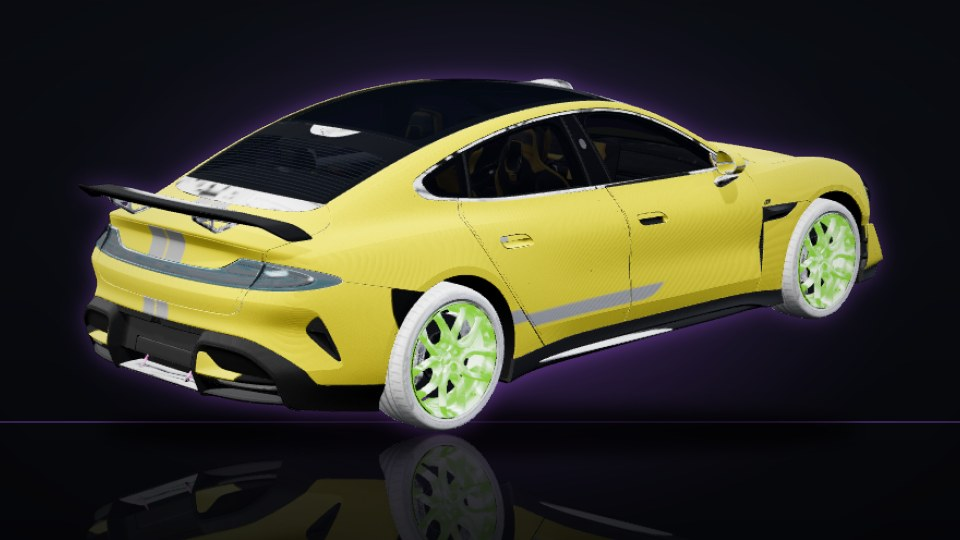
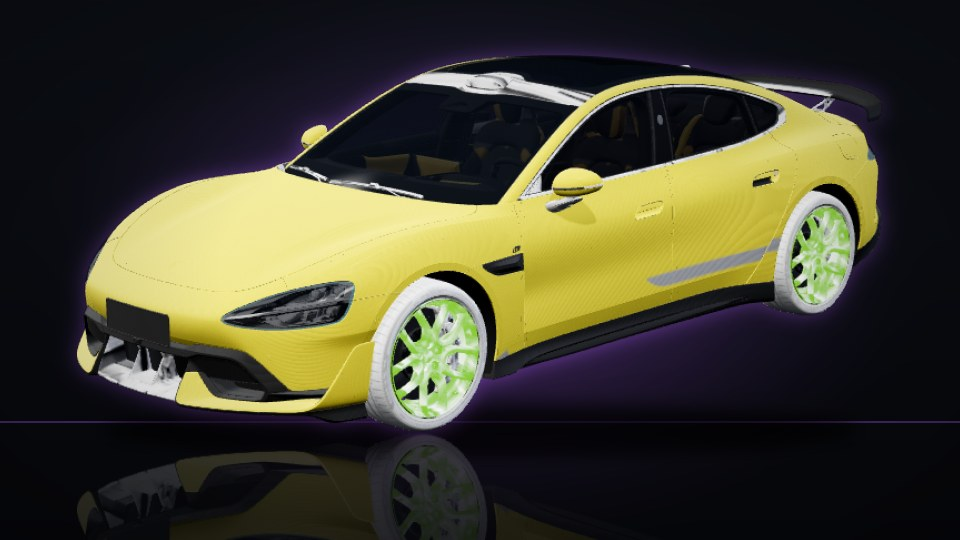
Каталог: 6 машин развёрнуты передом (найдены сканером), Франция без битых моделей (Citroen C1, Renault Talisman — у владельцев остаются), шины моделей без текстур тёмные
Claude-Session: https://claude.ai/code/session_019UALasUKNcW9S6Aj9a22dA

diff --git a/web/src/photos.ts b/web/src/photos.ts
@@ -1,5 +1,5 @@
 // Создано сборкой графики: машины, отрисованные по 3D-моделям (id → версия файла).
-export const PHOTOS: Record<number, string> = {"1":"a0a20f10","2":"4d78a45d","3":"9f8972d1","4":"5fdba6b5","5":"08997b49","6":"89c53860","7":"3ce6effe","8":"4fdff9d9","9":"e4af1e19","10":"df0142d7","11":"273c42c9","12":"6cb6e8f3","13":"a76e9824","14":"3c639a93","15":"ce9d79f6","16":"be1cf3c6","17":"ba84bf11","18":"c90b0d08","19":"d2004f71","20":"74f37a76","21":"dad98bdd","22":"55f0974d","23":"f4e7fb5f","24":"f192ad19","25":"1f88f432","26":"cb327f86","27":"08f83d2c","28":"385098e4","29":"aed1b9bf","30":"a9df1fd6","31":"f4eaabee","32":"19f9cc4f","33":"593bfba8","34":"ef456c11","35":"cc847159","36":"23bb94d7","37":"b7a7fa9d","38":"641a2fcc","39":"aa333dfe","40":"008a6bd8","41":"bf6f1095","42":"35ef4d3e","43":"8ab3f075","44":"a76e7765","45":"5b9ab1d8","46":"44d2c362","47":"1120c18b","48":"b90cd662","49":"de28e2e8","50":"e8e0e838","51":"9a7af5d3","52":"8e4927ad","53":"2ce34cb6","54":"cda32cc0","55":"b2246600","56":"fa22dce1","57":"460b3c78","58":"2d44795e","59":"d63c38a9","60":"513b2927","61":"93921e3a","62":"81a71f1e","63":"2dc0717e","64":"8f83987f","101":"f768a768","102":"a888f826","103":"a1e9124f","104":"27b82db8","105":"3079c25a","106":"1cf945bd","107":"c601acdc","108":"6dfa3b6d","109":"3ac3d743","110":"2fe43153","111":"e3f2a0e7","112":"f8d86b3c","113":"01c9b75e","114":"f3e3b52a","115":"3bb17395","116":"b36b1b10","117":"3e63bd29","118":"b5a35517","119":"4a2c6c39","120":"fd9fab7c","121":"54654caf","122":"9bddc043","123":"a4b55c84","124":"b90d33ba","125":"76acf313","126":"c7ecf0ce","127":"a175cfac","128":"265bfe34","129":"6a161786","130":"9f2b1acb","131":"efa3d57b","132":"d56aebd0","133":"443e15dd","134":"46d6873d","135":"5a49d684","136":"c6db2762","137":"05b39c57","138":"46336d2b","139":"d962a6c4","140":"c7ca652c","141":"ed190163","142":"06dd3544","200":"2cee37ba","201":"e0e4ec71","202":"d9945558","203":"ea17a359","204":"d124f292","205":"837563f6","206":"6da4c74c","207":"706ced99","208":"3078dfe9","209":"dfa48b29","210":"d56a0207","211":"d38e2764","212":"0b5ee0ff","213":"034a39ed","214":"b069e70e","215":"4c683ceb","216":"1c9c8123","217":"bdc59773","218":"449eba16","219":"f38b8db1","220":"215ded02","221":"43d25165","222":"d4573114","223":"d9140421","224":"de13299d","225":"0ddda057","226":"eb9c3b04","227":"0a1506c4","228":"a326b9b7","229":"b28a8d5a","230":"c67fbcfd","231":"0e254e2c","232":"62a073f1","233":"c814b666","234":"756504f6","235":"6ff30425","236":"2f7c0cb2","237":"9aa0e191","238":"c7ceeecc","239":"f09f33f1","240":"12c866cc","241":"3557268a","300":"649bea04","301":"66484ca8","302":"6112e4a9","303":"333e53a2","304":"439797cd","305":"11aa43dc","306":"f9bcbf27","307":"04346c69","308":"ae664be3","309":"bcc34f9f","310":"724bb97c","311":"12331726","312":"3c64a3c2","313":"66e188f3","314":"3cff1a0e","315":"5ddb8a00","316":"fa705c6f","317":"f698ef9c","318":"40efa3a6","319":"42590845","320":"889bbf26","321":"360eaf26","322":"9d363e45","323":"76463800","324":"a1318935","325":"800ff9c8","326":"cd5a236f","327":"df276c6e","328":"19f8f388","329":"c580d6e8","330":"f298e2bf","331":"4499cf43","332":"c4a6daf7","333":"be3bcbdb","334":"f8a88122","335":"ffa3c9de","336":"6a9186aa","337":"5a7fe2f4","338":"bb25b71b","339":"03288371","340":"fde506c5","341":"73d2f041","400":"11d97cb7","401":"760b99d5","402":"d8a12f87","403":"0f63cba8","404":"132590e5","405":"1db2b1f3","406":"c0d90a38","407":"929822ce","408":"da31c17c","409":"19152036","410":"30978a58","411":"7cd2f96e","412":"0451b0fb","413":"31a2ad79","414":"a8af1273","415":"312a3a27","416":"7baf73b0","417":"c7847ad1","418":"df37467a","419":"22661a4a","420":"9d618dd8","421":"f9101190","422":"f502af6a","423":"775a33a9","424":"252f0528","425":"1853ce27","426":"4516adc3","427":"92554e9e","428":"d2eaa51d","429":"1c017376","430":"01fe57ff","431":"67d8d458","432":"96386feb","433":"2f7b128a","434":"cfa39a5f","435":"a76a51fb","436":"28471267","437":"122d1bda","438":"545b36f2","439":"aef7a5a0","440":"de329800","441":"32af85fc","500":"e8a8fb22","501":"98d04fa6","502":"60ea26d1","503":"4c66f217","504":"8cc929e9","505":"652d3f90","506":"365ead4b","507":"0e489540","508":"70804c76","509":"467c1f2a","510":"609a2065","511":"f8461575","512":"36d71574","513":"c2b2f297","514":"6c2bb906","515":"8d216efc","516":"ed3f081d","517":"7d32cd61","518":"09635d8b","519":"2a94d53f","520":"8e830804","521":"b2a834fe","522":"8e34e6aa","523":"a5abca11","524":"b3075d45","525":"1f86adfc","526":"1e3ce295","527":"f0b21998","528":"e2f5c7a2","529":"1b70c1a4","530":"1615e59a","531":"1bb050ce","532":"adaf64f5","533":"982acb04","534":"6e7f625e","535":"338689ed","536":"739a260b","537":"6e51af88","538":"6ef026bb","539":"0e679e35","540":"3fb6a5ab","541":"6d4ef3ca","600":"1befe662","601":"05d4a254","602":"842aaa3b","603":"0dfe1581","604":"365ead4b","605":"bde5feaf","606":"0add0bd3","607":"2821eaa0","608":"f468656d","609":"4530883d","610":"25933d82","611":"cd078880","612":"4340d62e","613":"43be596d","614":"1c2a72ef","615":"a22a125a","616":"1a014ecf","617":"ee9d56e6","618":"71d5edab","619":"27487c07","620":"ab41674d","621":"2254b79d","622":"ceb0af4f","623":"0e56ffdb","624":"cd8d4dac","625":"9176cbf2","626":"03df11e5","627":"389e31fb","628":"5fb28ded","629":"bbf77307","630":"0483abb8","631":"512521e6","632":"8d28ae0b","633":"d1dc97a1","634":"f0b936e1","635":"302c6173","636":"db7cc7db","637":"4049282a","638":"e0f95698","639":"a3e8f80e","640":"77ab27ba","641":"099b3bf9","700":"d0bc3e2d","701":"38eb72b9","702":"18ad6618","703":"3e7b095e","704":"d59d3ee5","705":"18ee046d","706":"ae67ac3c","707":"a1004f47","708":"005c11d7","709":"dea8a83f","710":"c4d11f05","711":"30fc0088","712":"43b15b9e","713":"fe0ef21b","714":"0faeab94","715":"1f827a0d","716":"3c54f695","717":"520b6fdf","718":"17dbb027","719":"f6fcba39","720":"76d40853","721":"a107eb0e","722":"66e28c5e","723":"8567aa26","724":"b20cc301","725":"9d0fb653","726":"87a8a07c","727":"ed6d15f0","728":"0a9554d4","729":"eb381e05","730":"21a26ee8","731":"df92ec65","732":"73dc771a","733":"93238e65","734":"f4c2367a","735":"7b18eb71","736":"90c29825","737":"7e284f5c","738":"a6af1f3d","739":"cdfe258c","740":"295f3a00","741":"ecd7b779","800":"fb51ce30","801":"8f21cd11","802":"66cb9142","803":"beba58e5","804":"8696f79f","805":"58d7e612","806":"b0a2735f","807":"d60dd3bb","808":"7a4825a9","809":"6bd860fa","810":"5c409454","811":"33a6ce68","812":"fbd08e25","813":"22e51adb","814":"374e5ac5","815":"998e0300","816":"1c5ca67d","817":"8f3efadd","818":"5dccdff9","819":"d7dc7eaa","820":"9f3696f1","821":"edc32763","822":"930fc6eb","823":"eaca025d","824":"71daa07c","825":"dcb840e8","826":"90952d0d","827":"dec0a6ca","828":"24fa6156","829":"45bc5b18","830":"ec5281b1","831":"03054feb","832":"cc1a5a4c","833":"fd386b83","834":"b6d93f3b","835":"0541c1b5","836":"4c39a053","837":"39cb1990","838":"3e1ac87a","839":"15b51047","840":"d9768e80","841":"bb137b89"};
+export const PHOTOS: Record<number, string> = {"1":"a0a20f10","2":"4d78a45d","3":"9f8972d1","4":"5fdba6b5","5":"08997b49","6":"89c53860","7":"3ce6effe","8":"d5dc2ec2","9":"e4af1e19","10":"df0142d7","11":"273c42c9","12":"6cb6e8f3","13":"a76e9824","14":"3c639a93","15":"ce9d79f6","16":"be1cf3c6","17":"ba84bf11","18":"c90b0d08","19":"d2004f71","20":"74f37a76","21":"dad98bdd","22":"55f0974d","23":"f4e7fb5f","24":"f192ad19","25":"1f88f432","26":"cb327f86","27":"08f83d2c","28":"385098e4","29":"aed1b9bf","30":"a9df1fd6","31":"f4eaabee","32":"19f9cc4f","33":"593bfba8","34":"ef456c11","35":"cc847159","36":"23bb94d7","37":"b7a7fa9d","38":"641a2fcc","39":"aa333dfe","40":"008a6bd8","41":"bf6f1095","42":"35ef4d3e","43":"8ab3f075","44":"a76e7765","45":"5b9ab1d8","46":"66a58c37","47":"1120c18b","48":"b90cd662","49":"de28e2e8","50":"e8e0e838","51":"9a7af5d3","52":"8e4927ad","53":"2ce34cb6","54":"cda32cc0","55":"b2246600","56":"fa22dce1","57":"460b3c78","58":"2d44795e","59":"d63c38a9","60":"513b2927","61":"93921e3a","62":"81a71f1e","63":"2dc0717e","64":"8f83987f","101":"f768a768","102":"a888f826","103":"a1e9124f","104":"27b82db8","105":"3079c25a","106":"1cf945bd","107":"c601acdc","108":"6dfa3b6d","109":"3ac3d743","110":"2fe43153","111":"e3f2a0e7","112":"f8d86b3c","113":"01c9b75e","114":"f3e3b52a","115":"3bb17395","116":"b36b1b10","117":"3e63bd29","118":"b5a35517","119":"4a2c6c39","120":"fd9fab7c","121":"54654caf","122":"9bddc043","123":"a4b55c84","124":"b90d33ba","125":"76acf313","126":"c7ecf0ce","127":"a175cfac","128":"265bfe34","129":"6a161786","130":"9f2b1acb","131":"efa3d57b","132":"d56aebd0","133":"443e15dd","134":"46d6873d","135":"5a49d684","136":"c6db2762","137":"05b39c57","138":"46336d2b","139":"d962a6c4","140":"c7ca652c","141":"ed190163","142":"06dd3544","200":"2cee37ba","201":"e0e4ec71","202":"d9945558","203":"ea17a359","204":"d124f292","205":"837563f6","206":"6da4c74c","207":"706ced99","208":"3078dfe9","209":"dfa48b29","210":"d56a0207","211":"d38e2764","212":"0b5ee0ff","213":"034a39ed","214":"b069e70e","215":"4c683ceb","216":"1c9c8123","217":"bdc59773","218":"449eba16","219":"f38b8db1","220":"215ded02","221":"43d25165","222":"d4573114","223":"d9140421","224":"de13299d","225":"0ddda057","226":"eb9c3b04","227":"0a1506c4","228":"a326b9b7","229":"b28a8d5a","230":"c67fbcfd","231":"0e254e2c","232":"62a073f1","233":"c814b666","234":"14c2f8a6","235":"6ff30425","236":"2f7c0cb2","237":"9aa0e191","238":"c7ceeecc","239":"f09f33f1","240":"12c866cc","241":"3557268a","300":"649bea04","301":"66484ca8","302":"6112e4a9","303":"333e53a2","304":"439797cd","305":"11aa43dc","306":"f9bcbf27","307":"04346c69","308":"ae664be3","309":"bcc34f9f","310":"724bb97c","311":"12331726","312":"3c64a3c2","313":"66e188f3","314":"3cff1a0e","315":"5ddb8a00","316":"fa705c6f","317":"f698ef9c","318":"40efa3a6","319":"42590845","320":"889bbf26","321":"360eaf26","322":"9d363e45","323":"76463800","324":"a1318935","325":"800ff9c8","326":"cd5a236f","327":"df276c6e","328":"19f8f388","329":"c580d6e8","330":"f298e2bf","331":"4499cf43","332":"c4a6daf7","333":"be3bcbdb","334":"f8a88122","335":"ffa3c9de","336":"6a9186aa","337":"5a7fe2f4","338":"bb25b71b","339":"03288371","340":"fde506c5","341":"73d2f041","400":"11d97cb7","401":"760b99d5","402":"d8a12f87","403":"0f63cba8","404":"132590e5","405":"1db2b1f3","406":"c0d90a38","407":"929822ce","408":"da31c17c","409":"19152036","410":"30978a58","411":"7cd2f96e","412":"0451b0fb","413":"31a2ad79","414":"a8af1273","415":"312a3a27","416":"7baf73b0","417":"c7847ad1","418":"df37467a","419":"22661a4a","420":"85e00a82","421":"f9101190","422":"f502af6a","423":"775a33a9","424":"252f0528","425":"1853ce27","426":"4516adc3","427":"92554e9e","428":"d2eaa51d","429":"1c017376","430":"01fe57ff","431":"67d8d458","432":"96386feb","433":"2f7b128a","434":"cfa39a5f","435":"a76a51fb","436":"28471267","437":"122d1bda","438":"545b36f2","439":"aef7a5a0","440":"de329800","441":"32af85fc","500":"e8a8fb22","501":"98d04fa6","502":"60ea26d1","503":"4c66f217","504":"8cc929e9","505":"652d3f90","506":"365ead4b","507":"0e489540","508":"70804c76","509":"467c1f2a","510":"609a2065","511":"f8461575","512":"36d71574","513":"c2b2f297","514":"6c2bb906","515":"8d216efc","516":"2366c0cd","517":"7d32cd61","518":"09635d8b","519":"2a94d53f","520":"8e830804","521":"b2a834fe","522":"8e34e6aa","523":"a5abca11","524":"b3075d45","525":"1f86adfc","526":"1e3ce295","527":"f0b21998","528":"e2f5c7a2","529":"1b70c1a4","530":"1615e59a","531":"1bb050ce","532":"adaf64f5","533":"982acb04","534":"6e7f625e","535":"338689ed","536":"739a260b","537":"6e51af88","538":"6ef026bb","539":"0e679e35","540":"3fb6a5ab","541":"6d4ef3ca","600":"1befe662","601":"05d4a254","602":"842aaa3b","603":"0dfe1581","604":"365ead4b","605":"bde5feaf","606":"0add0bd3","607":"2821eaa0","608":"f468656d","609":"4530883d","610":"25933d82","611":"cd078880","612":"4340d62e","613":"43be596d","614":"1c2a72ef","615":"690a7c91","616":"1a014ecf","617":"ee9d56e6","618":"71d5edab","619":"27487c07","620":"ab41674d","621":"2254b79d","622":"e90bc337","623":"0e56ffdb","624":"cd8d4dac","625":"9176cbf2","626":"03df11e5","627":"389e31fb","628":"5fb28ded","629":"bbf77307","630":"0483abb8","631":"512521e6","632":"8d28ae0b","633":"54866f25","634":"f0b936e1","635":"302c6173","636":"db7cc7db","637":"4049282a","638":"e0f95698","639":"a3e8f80e","640":"77ab27ba","641":"099b3bf9","700":"d0bc3e2d","701":"38eb72b9","702":"18ad6618","703":"3e7b095e","704":"d59d3ee5","705":"18ee046d","706":"ae67ac3c","707":"a1004f47","708":"005c11d7","709":"dea8a83f","710":"c4d11f05","711":"30fc0088","712":"43b15b9e","713":"fe0ef21b","714":"0faeab94","715":"1f827a0d","716":"3c54f695","717":"520b6fdf","718":"17dbb027","719":"f6fcba39","720":"1b31f2fd","721":"1ae43a41","722":"66e28c5e","723":"8567aa26","724":"b20cc301","725":"9d0fb653","726":"87a8a07c","727":"ed6d15f0","728":"e5df86b0","729":"eb381e05","730":"21a26ee8","731":"df92ec65","732":"73dc771a","733":"93238e65","734":"f4c2367a","735":"7b18eb71","736":"90c29825","737":"7e284f5c","738":"a6af1f3d","739":"cdfe258c","740":"2f44505e","741":"ecd7b779","800":"fb51ce30","801":"8f21cd11","802":"66cb9142","803":"beba58e5","804":"8696f79f","805":"58d7e612","806":"b0a2735f","807":"d60dd3bb","808":"7a4825a9","809":"6bd860fa","810":"5c409454","811":"33a6ce68","812":"fbd08e25","813":"22e51adb","814":"374e5ac5","815":"998e0300","816":"1c5ca67d","817":"8f3efadd","818":"5dccdff9","819":"d7dc7eaa","820":"9f3696f1","821":"edc32763","822":"930fc6eb","823":"eaca025d","824":"71daa07c","825":"dcb840e8","826":"90952d0d","827":"dec0a6ca","828":"24fa6156","829":"45bc5b18","830":"ec5281b1","831":"03054feb","832":"cc1a5a4c","833":"fd386b83","834":"b6d93f3b","835":"0541c1b5","836":"4c39a053","837":"39cb1990","838":"3e1ac87a","839":"15b51047","840":"d9768e80","841":"bb137b89"};
 export const CREDITS: { car: string; author: string; license: string; page: string }[] = [
  {
   "car": "Folkswagen Golf",
@@ -986,12 +986,6 @@ export const CREDITS: { car: string; author: string; license: string; page: stri
   "page": "https://sketchfab.com/3d-models/none-56b116118b104f1eb2002f7c45425fd7"
  },
  {
-  "car": "Sitroen C1",
-  "author": "Merc_TV",
-  "license": "CC Attribution",
-  "page": "https://sketchfab.com/3d-models/none-a759429b04544680beb8e93806cb82a5"
- },
- {
   "car": "Reno Kadjar",
   "author": "franklinogrt",
   "license": "CC Attribution",
@@ -1140,12 +1134,6 @@ export const CREDITS: { car: string; author: string; license: string; page: stri
   "author": "007",
   "license": "CC Attribution",
   "page": "https://sketchfab.com/3d-models/none-8c1a78acc9854080bf8e6933a0a420dd"
- },
- {
-  "car": "Reno Talisman",
-  "author": "Merc_TV",
-  "license": "CC Attribution",
-  "page": "https://sketchfab.com/3d-models/none-73af35a79c5349d5a674f516ee791a88"
  },
  {
   "car": "Sitroen SM",

diff --git a/tgcloud/lib/photo_manifest.js b/tgcloud/lib/photo_manifest.js
@@ -1,2 +1,2 @@
 // Создано сборкой графики: машины, отрисованные по 3D-моделям (id → версия файла).
-export const PHOTOS = {"1":"a0a20f10","2":"4d78a45d","3":"9f8972d1","4":"5fdba6b5","5":"08997b49","6":"89c53860","7":"3ce6effe","8":"4fdff9d9","9":"e4af1e19","10":"df0142d7","11":"273c42c9","12":"6cb6e8f3","13":"a76e9824","14":"3c639a93","15":"ce9d79f6","16":"be1cf3c6","17":"ba84bf11","18":"c90b0d08","19":"d2004f71","20":"74f37a76","21":"dad98bdd","22":"55f0974d","23":"f4e7fb5f","24":"f192ad19","25":"1f88f432","26":"cb327f86","27":"08f83d2c","28":"385098e4","29":"aed1b9bf","30":"a9df1fd6","31":"f4eaabee","32":"19f9cc4f","33":"593bfba8","34":"ef456c11","35":"cc847159","36":"23bb94d7","37":"b7a7fa9d","38":"641a2fcc","39":"aa333dfe","40":"008a6bd8","41":"bf6f1095","42":"35ef4d3e","43":"8ab3f075","44":"a76e7765","45":"5b9ab1d8","46":"44d2c362","47":"1120c18b","48":"b90cd662","49":"de28e2e8","50":"e8e0e838","51":"9a7af5d3","52":"8e4927ad","53":"2ce34cb6","54":"cda32cc0","55":"b2246600","56":"fa22dce1","57":"460b3c78","58":"2d44795e","59":"d63c38a9","60":"513b2927","61":"93921e3a","62":"81a71f1e","63":"2dc0717e","64":"8f83987f","101":"f768a768","102":"a888f826","103":"a1e9124f","104":"27b82db8","105":"3079c25a","106":"1cf945bd","107":"c601acdc","108":"6dfa3b6d","109":"3ac3d743","110":"2fe43153","111":"e3f2a0e7","112":"f8d86b3c","113":"01c9b75e","114":"f3e3b52a","115":"3bb17395","116":"b36b1b10","117":"3e63bd29","118":"b5a35517","119":"4a2c6c39","120":"fd9fab7c","121":"54654caf","122":"9bddc043","123":"a4b55c84","124":"b90d33ba","125":"76acf313","126":"c7ecf0ce","127":"a175cfac","128":"265bfe34","129":"6a161786","130":"9f2b1acb","131":"efa3d57b","132":"d56aebd0","133":"443e15dd","134":"46d6873d","135":"5a49d684","136":"c6db2762","137":"05b39c57","138":"46336d2b","139":"d962a6c4","140":"c7ca652c","141":"ed190163","142":"06dd3544","200":"2cee37ba","201":"e0e4ec71","202":"d9945558","203":"ea17a359","204":"d124f292","205":"837563f6","206":"6da4c74c","207":"706ced99","208":"3078dfe9","209":"dfa48b29","210":"d56a0207","211":"d38e2764","212":"0b5ee0ff","213":"034a39ed","214":"b069e70e","215":"4c683ceb","216":"1c9c8123","217":"bdc59773","218":"449eba16","219":"f38b8db1","220":"215ded02","221":"43d25165","222":"d4573114","223":"d9140421","224":"de13299d","225":"0ddda057","226":"eb9c3b04","227":"0a1506c4","228":"a326b9b7","229":"b28a8d5a","230":"c67fbcfd","231":"0e254e2c","232":"62a073f1","233":"c814b666","234":"756504f6","235":"6ff30425","236":"2f7c0cb2","237":"9aa0e191","238":"c7ceeecc","239":"f09f33f1","240":"12c866cc","241":"3557268a","300":"649bea04","301":"66484ca8","302":"6112e4a9","303":"333e53a2","304":"439797cd","305":"11aa43dc","306":"f9bcbf27","307":"04346c69","308":"ae664be3","309":"bcc34f9f","310":"724bb97c","311":"12331726","312":"3c64a3c2","313":"66e188f3","314":"3cff1a0e","315":"5ddb8a00","316":"fa705c6f","317":"f698ef9c","318":"40efa3a6","319":"42590845","320":"889bbf26","321":"360eaf26","322":"9d363e45","323":"76463800","324":"a1318935","325":"800ff9c8","326":"cd5a236f","327":"df276c6e","328":"19f8f388","329":"c580d6e8","330":"f298e2bf","331":"4499cf43","332":"c4a6daf7","333":"be3bcbdb","334":"f8a88122","335":"ffa3c9de","336":"6a9186aa","337":"5a7fe2f4","338":"bb25b71b","339":"03288371","340":"fde506c5","341":"73d2f041","400":"11d97cb7","401":"760b99d5","402":"d8a12f87","403":"0f63cba8","404":"132590e5","405":"1db2b1f3","406":"c0d90a38","407":"929822ce","408":"da31c17c","409":"19152036","410":"30978a58","411":"7cd2f96e","412":"0451b0fb","413":"31a2ad79","414":"a8af1273","415":"312a3a27","416":"7baf73b0","417":"c7847ad1","418":"df37467a","419":"22661a4a","420":"9d618dd8","421":"f9101190","422":"f502af6a","423":"775a33a9","424":"252f0528","425":"1853ce27","426":"4516adc3","427":"92554e9e","428":"d2eaa51d","429":"1c017376","430":"01fe57ff","431":"67d8d458","432":"96386feb","433":"2f7b128a","434":"cfa39a5f","435":"a76a51fb","436":"28471267","437":"122d1bda","438":"545b36f2","439":"aef7a5a0","440":"de329800","441":"32af85fc","500":"e8a8fb22","501":"98d04fa6","502":"60ea26d1","503":"4c66f217","504":"8cc929e9","505":"652d3f90","506":"365ead4b","507":"0e489540","508":"70804c76","509":"467c1f2a","510":"609a2065","511":"f8461575","512":"36d71574","513":"c2b2f297","514":"6c2bb906","515":"8d216efc","516":"ed3f081d","517":"7d32cd61","518":"09635d8b","519":"2a94d53f","520":"8e830804","521":"b2a834fe","522":"8e34e6aa","523":"a5abca11","524":"b3075d45","525":"1f86adfc","526":"1e3ce295","527":"f0b21998","528":"e2f5c7a2","529":"1b70c1a4","530":"1615e59a","531":"1bb050ce","532":"adaf64f5","533":"982acb04","534":"6e7f625e","535":"338689ed","536":"739a260b","537":"6e51af88","538":"6ef026bb","539":"0e679e35","540":"3fb6a5ab","541":"6d4ef3ca","600":"1befe662","601":"05d4a254","602":"842aaa3b","603":"0dfe1581","604":"365ead4b","605":"bde5feaf","606":"0add0bd3","607":"2821eaa0","608":"f468656d","609":"4530883d","610":"25933d82","611":"cd078880","612":"4340d62e","613":"43be596d","614":"1c2a72ef","615":"a22a125a","616":"1a014ecf","617":"ee9d56e6","618":"71d5edab","619":"27487c07","620":"ab41674d","621":"2254b79d","622":"ceb0af4f","623":"0e56ffdb","624":"cd8d4dac","625":"9176cbf2","626":"03df11e5","627":"389e31fb","628":"5fb28ded","629":"bbf77307","630":"0483abb8","631":"512521e6","632":"8d28ae0b","633":"d1dc97a1","634":"f0b936e1","635":"302c6173","636":"db7cc7db","637":"4049282a","638":"e0f95698","639":"a3e8f80e","640":"77ab27ba","641":"099b3bf9","700":"d0bc3e2d","701":"38eb72b9","702":"18ad6618","703":"3e7b095e","704":"d59d3ee5","705":"18ee046d","706":"ae67ac3c","707":"a1004f47","708":"005c11d7","709":"dea8a83f","710":"c4d11f05","711":"30fc0088","712":"43b15b9e","713":"fe0ef21b","714":"0faeab94","715":"1f827a0d","716":"3c54f695","717":"520b6fdf","718":"17dbb027","719":"f6fcba39","720":"76d40853","721":"a107eb0e","722":"66e28c5e","723":"8567aa26","724":"b20cc301","725":"9d0fb653","726":"87a8a07c","727":"ed6d15f0","728":"0a9554d4","729":"eb381e05","730":"21a26ee8","731":"df92ec65","732":"73dc771a","733":"93238e65","734":"f4c2367a","735":"7b18eb71","736":"90c29825","737":"7e284f5c","738":"a6af1f3d","739":"cdfe258c","740":"295f3a00","741":"ecd7b779","800":"fb51ce30","801":"8f21cd11","802":"66cb9142","803":"beba58e5","804":"8696f79f","805":"58d7e612","806":"b0a2735f","807":"d60dd3bb","808":"7a4825a9","809":"6bd860fa","810":"5c409454","811":"33a6ce68","812":"fbd08e25","813":"22e51adb","814":"374e5ac5","815":"998e0300","816":"1c5ca67d","817":"8f3efadd","818":"5dccdff9","819":"d7dc7eaa","820":"9f3696f1","821":"edc32763","822":"930fc6eb","823":"eaca025d","824":"71daa07c","825":"dcb840e8","826":"90952d0d","827":"dec0a6ca","828":"24fa6156","829":"45bc5b18","830":"ec5281b1","831":"03054feb","832":"cc1a5a4c","833":"fd386b83","834":"b6d93f3b","835":"0541c1b5","836":"4c39a053","837":"39cb1990","838":"3e1ac87a","839":"15b51047","840":"d9768e80","841":"bb137b89"};
+export const PHOTOS = {"1":"a0a20f10","2":"4d78a45d","3":"9f8972d1","4":"5fdba6b5","5":"08997b49","6":"89c53860","7":"3ce6effe","8":"d5dc2ec2","9":"e4af1e19","10":"df0142d7","11":"273c42c9","12":"6cb6e8f3","13":"a76e9824","14":"3c639a93","15":"ce9d79f6","16":"be1cf3c6","17":"ba84bf11","18":"c90b0d08","19":"d2004f71","20":"74f37a76","21":"dad98bdd","22":"55f0974d","23":"f4e7fb5f","24":"f192ad19","25":"1f88f432","26":"cb327f86","27":"08f83d2c","28":"385098e4","29":"aed1b9bf","30":"a9df1fd6","31":"f4eaabee","32":"19f9cc4f","33":"593bfba8","34":"ef456c11","35":"cc847159","36":"23bb94d7","37":"b7a7fa9d","38":"641a2fcc","39":"aa333dfe","40":"008a6bd8","41":"bf6f1095","42":"35ef4d3e","43":"8ab3f075","44":"a76e7765","45":"5b9ab1d8","46":"66a58c37","47":"1120c18b","48":"b90cd662","49":"de28e2e8","50":"e8e0e838","51":"9a7af5d3","52":"8e4927ad","53":"2ce34cb6","54":"cda32cc0","55":"b2246600","56":"fa22dce1","57":"460b3c78","58":"2d44795e","59":"d63c38a9","60":"513b2927","61":"93921e3a","62":"81a71f1e","63":"2dc0717e","64":"8f83987f","101":"f768a768","102":"a888f826","103":"a1e9124f","104":"27b82db8","105":"3079c25a","106":"1cf945bd","107":"c601acdc","108":"6dfa3b6d","109":"3ac3d743","110":"2fe43153","111":"e3f2a0e7","112":"f8d86b3c","113":"01c9b75e","114":"f3e3b52a","115":"3bb17395","116":"b36b1b10","117":"3e63bd29","118":"b5a35517","119":"4a2c6c39","120":"fd9fab7c","121":"54654caf","122":"9bddc043","123":"a4b55c84","124":"b90d33ba","125":"76acf313","126":"c7ecf0ce","127":"a175cfac","128":"265bfe34","129":"6a161786","130":"9f2b1acb","131":"efa3d57b","132":"d56aebd0","133":"443e15dd","134":"46d6873d","135":"5a49d684","136":"c6db2762","137":"05b39c57","138":"46336d2b","139":"d962a6c4","140":"c7ca652c","141":"ed190163","142":"06dd3544","200":"2cee37ba","201":"e0e4ec71","202":"d9945558","203":"ea17a359","204":"d124f292","205":"837563f6","206":"6da4c74c","207":"706ced99","208":"3078dfe9","209":"dfa48b29","210":"d56a0207","211":"d38e2764","212":"0b5ee0ff","213":"034a39ed","214":"b069e70e","215":"4c683ceb","216":"1c9c8123","217":"bdc59773","218":"449eba16","219":"f38b8db1","220":"215ded02","221":"43d25165","222":"d4573114","223":"d9140421","224":"de13299d","225":"0ddda057","226":"eb9c3b04","227":"0a1506c4","228":"a326b9b7","229":"b28a8d5a","230":"c67fbcfd","231":"0e254e2c","232":"62a073f1","233":"c814b666","234":"14c2f8a6","235":"6ff30425","236":"2f7c0cb2","237":"9aa0e191","238":"c7ceeecc","239":"f09f33f1","240":"12c866cc","241":"3557268a","300":"649bea04","301":"66484ca8","302":"6112e4a9","303":"333e53a2","304":"439797cd","305":"11aa43dc","306":"f9bcbf27","307":"04346c69","308":"ae664be3","309":"bcc34f9f","310":"724bb97c","311":"12331726","312":"3c64a3c2","313":"66e188f3","314":"3cff1a0e","315":"5ddb8a00","316":"fa705c6f","317":"f698ef9c","318":"40efa3a6","319":"42590845","320":"889bbf26","321":"360eaf26","322":"9d363e45","323":"76463800","324":"a1318935","325":"800ff9c8","326":"cd5a236f","327":"df276c6e","328":"19f8f388","329":"c580d6e8","330":"f298e2bf","331":"4499cf43","332":"c4a6daf7","333":"be3bcbdb","334":"f8a88122","335":"ffa3c9de","336":"6a9186aa","337":"5a7fe2f4","338":"bb25b71b","339":"03288371","340":"fde506c5","341":"73d2f041","400":"11d97cb7","401":"760b99d5","402":"d8a12f87","403":"0f63cba8","404":"132590e5","405":"1db2b1f3","406":"c0d90a38","407":"929822ce","408":"da31c17c","409":"19152036","410":"30978a58","411":"7cd2f96e","412":"0451b0fb","413":"31a2ad79","414":"a8af1273","415":"312a3a27","416":"7baf73b0","417":"c7847ad1","418":"df37467a","419":"22661a4a","420":"85e00a82","421":"f9101190","422":"f502af6a","423":"775a33a9","424":"252f0528","425":"1853ce27","426":"4516adc3","427":"92554e9e","428":"d2eaa51d","429":"1c017376","430":"01fe57ff","431":"67d8d458","432":"96386feb","433":"2f7b128a","434":"cfa39a5f","435":"a76a51fb","436":"28471267","437":"122d1bda","438":"545b36f2","439":"aef7a5a0","440":"de329800","441":"32af85fc","500":"e8a8fb22","501":"98d04fa6","502":"60ea26d1","503":"4c66f217","504":"8cc929e9","505":"652d3f90","506":"365ead4b","507":"0e489540","508":"70804c76","509":"467c1f2a","510":"609a2065","511":"f8461575","512":"36d71574","513":"c2b2f297","514":"6c2bb906","515":"8d216efc","516":"2366c0cd","517":"7d32cd61","518":"09635d8b","519":"2a94d53f","520":"8e830804","521":"b2a834fe","522":"8e34e6aa","523":"a5abca11","524":"b3075d45","525":"1f86adfc","526":"1e3ce295","527":"f0b21998","528":"e2f5c7a2","529":"1b70c1a4","530":"1615e59a","531":"1bb050ce","532":"adaf64f5","533":"982acb04","534":"6e7f625e","535":"338689ed","536":"739a260b","537":"6e51af88","538":"6ef026bb","539":"0e679e35","540":"3fb6a5ab","541":"6d4ef3ca","600":"1befe662","601":"05d4a254","602":"842aaa3b","603":"0dfe1581","604":"365ead4b","605":"bde5feaf","606":"0add0bd3","607":"2821eaa0","608":"f468656d","609":"4530883d","610":"25933d82","611":"cd078880","612":"4340d62e","613":"43be596d","614":"1c2a72ef","615":"690a7c91","616":"1a014ecf","617":"ee9d56e6","618":"71d5edab","619":"27487c07","620":"ab41674d","621":"2254b79d","622":"e90bc337","623":"0e56ffdb","624":"cd8d4dac","625":"9176cbf2","626":"03df11e5","627":"389e31fb","628":"5fb28ded","629":"bbf77307","630":"0483abb8","631":"512521e6","632":"8d28ae0b","633":"54866f25","634":"f0b936e1","635":"302c6173","636":"db7cc7db","637":"4049282a","638":"e0f95698","639":"a3e8f80e","640":"77ab27ba","641":"099b3bf9","700":"d0bc3e2d","701":"38eb72b9","702":"18ad6618","703":"3e7b095e","704":"d59d3ee5","705":"18ee046d","706":"ae67ac3c","707":"a1004f47","708":"005c11d7","709":"dea8a83f","710":"c4d11f05","711":"30fc0088","712":"43b15b9e","713":"fe0ef21b","714":"0faeab94","715":"1f827a0d","716":"3c54f695","717":"520b6fdf","718":"17dbb027","719":"f6fcba39","720":"1b31f2fd","721":"1ae43a41","722":"66e28c5e","723":"8567aa26","724":"b20cc301","725":"9d0fb653","726":"87a8a07c","727":"ed6d15f0","728":"e5df86b0","729":"eb381e05","730":"21a26ee8","731":"df92ec65","732":"73dc771a","733":"93238e65","734":"f4c2367a","735":"7b18eb71","736":"90c29825","737":"7e284f5c","738":"a6af1f3d","739":"cdfe258c","740":"2f44505e","741":"ecd7b779","800":"fb51ce30","801":"8f21cd11","802":"66cb9142","803":"beba58e5","804":"8696f79f","805":"58d7e612","806":"b0a2735f","807":"d60dd3bb","808":"7a4825a9","809":"6bd860fa","810":"5c409454","811":"33a6ce68","812":"fbd08e25","813":"22e51adb","814":"374e5ac5","815":"998e0300","816":"1c5ca67d","817":"8f3efadd","818":"5dccdff9","819":"d7dc7eaa","820":"9f3696f1","821":"edc32763","822":"930fc6eb","823":"eaca025d","824":"71daa07c","825":"dcb840e8","826":"90952d0d","827":"dec0a6ca","828":"24fa6156","829":"45bc5b18","830":"ec5281b1","831":"03054feb","832":"cc1a5a4c","833":"fd386b83","834":"b6d93f3b","835":"0541c1b5","836":"4c39a053","837":"39cb1990","838":"3e1ac87a","839":"15b51047","840":"d9768e80","841":"bb137b89"};

diff --git a/tgcloud/lib/catalog_world.js b/tgcloud/lib/catalog_world.js
@@ -140,23 +140,23 @@ export const WORLD = {
     ['BYD Yangwang U9', 'mythic', 1287, 'super', 230000, 48], ['NIO EP9', 'mythic', 1341, 'super', 1480000],
   ] },
   7: { flag: 'fr', country: 'Франция', base: 700, cars: [
+    // id закреплены: убранные из контейнера машины остаются у владельцев, их id не переиспользуются
     ['Peugeot 208', 'common', 100, 'hatch', 21000, 49], ['Renault Clio', 'common', 90, 'hatch', 20000, 50], ['Peugeot 2008', 'common', 130, 'suv', 26000, 51],
-    ['Peugeot 308', 'common', 130, 'hatch', 29000], ['Peugeot 3008', 'common', 136, 'suv', 36000], ['Renault Captur', 'common', 140, 'suv', 24000],
-    ['Renault Duster', 'common', 115, 'suv', 18000], ['Peugeot 5008', 'common', 136, 'suv', 39000], ['Renault Austral', 'common', 160, 'suv', 35000],
-    ['Dacia Sandero', 'common', 90, 'hatch', 13000], ['Peugeot 508', 'common', 180, 'sedan', 38000], ['Renault Arkana', 'common', 140, 'suv', 29000],
-    ['Citroen C3 2015', 'common', 82, 'hatch', 16000], ['Peugeot 408', 'common', 130, 'hatch', 33000], ['Citroen C1', 'common', 72, 'hatch', 12000],
-    ['Renault Kadjar', 'common', 140, 'suv', 27000], ['Renault Twingo', 'common', 65, 'hatch', 14000], ['Renault Zoe', 'common', 136, 'hatch', 32000],
-    ['Renault Koleos', 'common', 170, 'suv', 35000], ['Peugeot 206', 'common', 90, 'hatch', 14000], ['Peugeot 207', 'common', 95, 'hatch', 16000],
-    ['Peugeot 406', 'common', 135, 'sedan', 22000], ['Peugeot 407', 'common', 140, 'sedan', 24000], ['Dacia Logan', 'common', 90, 'sedan', 11000],
-    ['Renault Megane', 'common', 140, 'hatch', 24000], ['Renault Laguna', 'common', 150, 'sedan', 26000], ['Renault Scenic', 'common', 130, 'van', 25000],
-    ['Peugeot 107', 'common', 68, 'hatch', 11000], ['Citroen C3 Picasso', 'common', 95, 'van', 18000], ['Renault Clio 2', 'common', 75, 'hatch', 12000],
-    ['Renault Espace', 'rare', 200, 'suv', 45000, 52], ['Alpine A110', 'rare', 252, 'coupe', 70000, 53], ['Citroen C5 Aircross', 'rare', 130, 'suv', 32000],
-    ['Renault Clio RS', 'rare', 220, 'hatch', 30000], ['Peugeot RCZ', 'rare', 270, 'coupe', 38000], ['Alpine A110 S', 'rare', 300, 'coupe', 82000],
-    ['Renault Megane RS', 'rare', 300, 'hatch', 45000], ['Renault Kangoo', 'rare', 110, 'van', 21000], ['Peugeot 106 Rallye', 'rare', 100, 'hatch', 20000],
-    ['Renault Clio V6', 'rare', 255, 'hatch', 60000], ['Renault Talisman', 'rare', 160, 'sedan', 32000], ['Citroen SM', 'rare', 170, 'coupe', 70000],
-    ['Peugeot e-208', 'rare', 136, 'hatch', 34000], ['Alpine A310', 'rare', 150, 'coupe', 60000], ['Bugatti Chiron Pur Sport', 'epic', 1500, 'super', 3600000, 54],
-    ['Bugatti Veyron', 'epic', 1001, 'super', 1700000, 55], ['Bugatti Divo', 'epic', 1500, 'super', 5800000], ['Bugatti EB110', 'epic', 553, 'super', 2000000],
-    ['Bugatti Chiron', 'mythic', 1500, 'super', 3000000, 56], ['Bugatti Tourbillon', 'mythic', 1800, 'super', 4000000],
+    ['Peugeot 308', 'common', 130, 'hatch', 29000, 700], ['Peugeot 3008', 'common', 136, 'suv', 36000, 701], ['Renault Captur', 'common', 140, 'suv', 24000, 702],
+    ['Renault Duster', 'common', 115, 'suv', 18000, 703], ['Peugeot 5008', 'common', 136, 'suv', 39000, 704], ['Renault Austral', 'common', 160, 'suv', 35000, 705],
+    ['Dacia Sandero', 'common', 90, 'hatch', 13000, 706], ['Peugeot 508', 'common', 180, 'sedan', 38000, 707], ['Renault Arkana', 'common', 140, 'suv', 29000, 708],
+    ['Citroen C3 2015', 'common', 82, 'hatch', 16000, 709], ['Peugeot 408', 'common', 130, 'hatch', 33000, 710], ['Renault Kadjar', 'common', 140, 'suv', 27000, 712],
+    ['Renault Twingo', 'common', 65, 'hatch', 14000, 713], ['Renault Zoe', 'common', 136, 'hatch', 32000, 714], ['Renault Koleos', 'common', 170, 'suv', 35000, 715],
+    ['Peugeot 206', 'common', 90, 'hatch', 14000, 716], ['Peugeot 207', 'common', 95, 'hatch', 16000, 717], ['Peugeot 406', 'common', 135, 'sedan', 22000, 718],
+    ['Peugeot 407', 'common', 140, 'sedan', 24000, 719], ['Dacia Logan', 'common', 90, 'sedan', 11000, 720], ['Renault Megane', 'common', 140, 'hatch', 24000, 721],
+    ['Renault Laguna', 'common', 150, 'sedan', 26000, 722], ['Renault Scenic', 'common', 130, 'van', 25000, 723], ['Peugeot 107', 'common', 68, 'hatch', 11000, 724],
+    ['Citroen C3 Picasso', 'common', 95, 'van', 18000, 725], ['Renault Clio 2', 'common', 75, 'hatch', 12000, 726], ['Renault Espace', 'rare', 200, 'suv', 45000, 52],
+    ['Alpine A110', 'rare', 252, 'coupe', 70000, 53], ['Citroen C5 Aircross', 'rare', 130, 'suv', 32000, 727], ['Renault Clio RS', 'rare', 220, 'hatch', 30000, 728],
+    ['Peugeot RCZ', 'rare', 270, 'coupe', 38000, 729], ['Alpine A110 S', 'rare', 300, 'coupe', 82000, 730], ['Renault Megane RS', 'rare', 300, 'hatch', 45000, 731],
+    ['Renault Kangoo', 'rare', 110, 'van', 21000, 732], ['Peugeot 106 Rallye', 'rare', 100, 'hatch', 20000, 733], ['Renault Clio V6', 'rare', 255, 'hatch', 60000, 734],
+    ['Citroen SM', 'rare', 170, 'coupe', 70000, 736], ['Peugeot e-208', 'rare', 136, 'hatch', 34000, 737], ['Alpine A310', 'rare', 150, 'coupe', 60000, 738],
+    ['Bugatti Chiron Pur Sport', 'epic', 1500, 'super', 3600000, 54], ['Bugatti Veyron', 'epic', 1001, 'super', 1700000, 55], ['Bugatti Divo', 'epic', 1500, 'super', 5800000, 739],
+    ['Bugatti EB110', 'epic', 553, 'super', 2000000, 740], ['Bugatti Chiron', 'mythic', 1500, 'super', 3000000, 56], ['Bugatti Tourbillon', 'mythic', 1800, 'super', 4000000, 741],
   ] },
   8: { flag: 'world', country: 'Другие страны', base: 800, cars: [
     ['Kia Sportage', 'common', 187, 'suv', 27990, 57], ['Hyundai Tucson', 'common', 187, 'suv', 28705, 58], ['Kia Rio', 'common', 120, 'sedan', 17000, 59],

diff --git a/test/v3.test.js b/test/v3.test.js
@@ -25,13 +25,13 @@ beforeEach(async () => {
 test('8 стран, у каждого контейнера флаг; редкость по эксклюзивности, в России 35 машин', async () => {
   assert.equal((await db.get('SELECT count(*) AS n FROM containers')).n, 8);
   // 64 старых + новые; убранные из России машины не создаются (кроме старых id 36, 37 — они остаются у владельцев)
-  assert.equal((await db.get('SELECT count(*) AS n FROM cars')).n, 64 + 42 * 7 + 29);
+  assert.equal((await db.get('SELECT count(*) AS n FROM cars')).n, 64 + 42 * 6 + 29 + 40);
   assert.equal((await db.get('SELECT count(*) AS n FROM cars WHERE is_active = 1 AND id IN (36, 37)')).n, 0, 'вне контейнеров — не выпадают');
   const de = await db.all("SELECT c.rarity, count(*) AS n FROM container_cars cc JOIN cars c ON c.id = cc.car_id WHERE cc.container_id = 2 GROUP BY c.rarity ORDER BY c.rarity");
   assert.deepEqual(Object.fromEntries(de.map((r) => [r.rarity, r.n])), { common: 30, epic: 4, mythic: 1, mystic: 1, rare: 14 });
   const flags = (await db.all('SELECT flag FROM container_meta ORDER BY container_id')).map((r) => r.flag);
   assert.deepEqual(flags, ['jp', 'de', 'us', 'it', 'ru', 'cn', 'fr', 'world']);
-  for (let c = 1; c <= 8; c++) assert.equal((await db.get('SELECT count(*) AS n FROM container_cars WHERE container_id = :c', { ':c': c })).n, c === 5 ? 35 : 50);
+  for (let c = 1; c <= 8; c++) assert.equal((await db.get('SELECT count(*) AS n FROM container_cars WHERE container_id = :c', { ':c': c })).n, c === 5 ? 35 : c === 7 ? 48 : 50);
 });
 
 test('динамическая цена: дорогие торги поднимают стартовую цену, пустые — снижают (не больше 10% за раз)', async () => {

diff --git a/tgcloud/lib/ddl8.js b/tgcloud/lib/ddl8.js
@@ -111,7 +111,8 @@ export const MIGRATION_27 = [1, 2, 3, 4, 5, 6, 7, 8].flatMap((cid) => [
 // 29: редкость по эксклюзивности (мистическая, легендарная — только малые серии), Россия — 35 машин
 // российских и советских марок. Убранные машины остаются у владельцев как есть, но больше не выпадают:
 // они выходят из контейнера и из наград (is_active = 0 для машин вне всех контейнеров).
-export const MIGRATION_29 = [1, 2, 3, 4, 5, 6, 7, 8].flatMap((cid) => [
+// Синхронизация каталога с catalog_world.js: машины, состав контейнеров, цены контейнеров, машины сезона BP.
+export const catalogSync = () => [1, 2, 3, 4, 5, 6, 7, 8].flatMap((cid) => [
   ...upsertWorld(cid, { legacy: false }),
   `DELETE FROM container_cars WHERE container_id = ${cid} AND car_id NOT IN (${worldIds(cid).join(', ')})`,
   `UPDATE containers SET price = ${containerPrice(cid)} WHERE id = ${cid}`,
@@ -127,3 +128,7 @@ export const MIGRATION_29 = [1, 2, 3, 4, 5, 6, 7, 8].flatMap((cid) => [
      WHERE c1.id = bp_seasons.prem_car_id ORDER BY abs(c2.price - c1.price) LIMIT 1)
    WHERE prem_car_id IS NOT NULL AND (SELECT rarity FROM cars WHERE id = prem_car_id) <> 'epic'`,
 ]);
+export const MIGRATION_29 = catalogSync();
+
+// 30: Франция — убраны Citroen C1 и Renault Talisman (битые 3D-модели), у владельцев остаются; развёрнутые машины.
+export const MIGRATION_30 = catalogSync();

diff --git a/test/mystic.test.js b/test/mystic.test.js
@@ -10,7 +10,7 @@ test('миграция 28: cars пересобрана без потерь, ми
   const db = makeDb(); E.dropSettingsCache();
   // база «как сейчас на сервере»: все миграции до 27
   await db.run('CREATE TABLE IF NOT EXISTS schema_migrations (id INTEGER PRIMARY KEY, applied_at INTEGER NOT NULL)');
-  await db.run('INSERT INTO schema_migrations (id, applied_at) VALUES (28, 0), (29, 0)');
+  await db.run('INSERT INTO schema_migrations (id, applied_at) VALUES (28, 0), (29, 0), (30, 0)');
   await E.migrate(db);
   await E.ensureUser(db, { id: 2, username: 'u2' });
   await db.run(`INSERT INTO car_grants (op_id, user_id, car_id, source, created_at) VALUES ('g1', 2, 57, 'admin', (SELECT now FROM v_now))`);
@@ -27,7 +27,8 @@ test('миграция 28: cars пересобрана без потерь, ми
   assert.deepEqual(await db.all('SELECT * FROM cars ORDER BY id'), carsBefore, 'машины не изменились');
   assert.deepEqual(await db.all('SELECT * FROM user_cars ORDER BY id'), gBefore, 'гаражи не изменились');
   assert.deepEqual(await E.audit(db), []);
-  assert.deepEqual(await E.migrate(db), [29]);
+  await db.run('DELETE FROM schema_migrations WHERE id = 30');
+  assert.deepEqual(await E.migrate(db), [29, 30]);
   assert.equal((await db.get('SELECT rarity FROM cars WHERE id = 16')).rarity, 'mystic', 'Mercedes-AMG One — мистическая');
   // мистическая: записывается, падает из контейнера с шансом, выставляется на рынок
   await db.run("UPDATE cars SET rarity = 'mystic' WHERE id = 57");

diff --git a/tgcloud/lib/ddl.js b/tgcloud/lib/ddl.js
@@ -10,7 +10,7 @@ import { MIGRATION_11 } from './ddl7.js';
 import { MIGRATION_20, MIGRATION_21 } from './ddl9.js';
 import { MIGRATION_25 } from './ddl10.js';
 import { migration28 } from './ddl11.js';
-import { MIGRATION_12, MIGRATION_13, MIGRATION_14, MIGRATION_15, MIGRATION_16, MIGRATION_17, MIGRATION_18, MIGRATION_19, MIGRATION_22, MIGRATION_23, MIGRATION_24, MIGRATION_26, MIGRATION_27, MIGRATION_29 } from './ddl8.js';
+import { MIGRATION_12, MIGRATION_13, MIGRATION_14, MIGRATION_15, MIGRATION_16, MIGRATION_17, MIGRATION_18, MIGRATION_19, MIGRATION_22, MIGRATION_23, MIGRATION_24, MIGRATION_26, MIGRATION_27, MIGRATION_29, MIGRATION_30 } from './ddl8.js';
 
 export const SETTINGS = {
   start_balance: 15_000,
@@ -631,4 +631,6 @@ export const MIGRATIONS = [
   { id: 28, statements: [], run: migration28 },
   // 29: редкость по эксклюзивности, Россия — только российские марки (35 машин)
   { id: 29, statements: MIGRATION_29 },
+  // 30: Франция — без битых моделей (48 машин)
+  { id: 30, statements: MIGRATION_30 },
 ];
